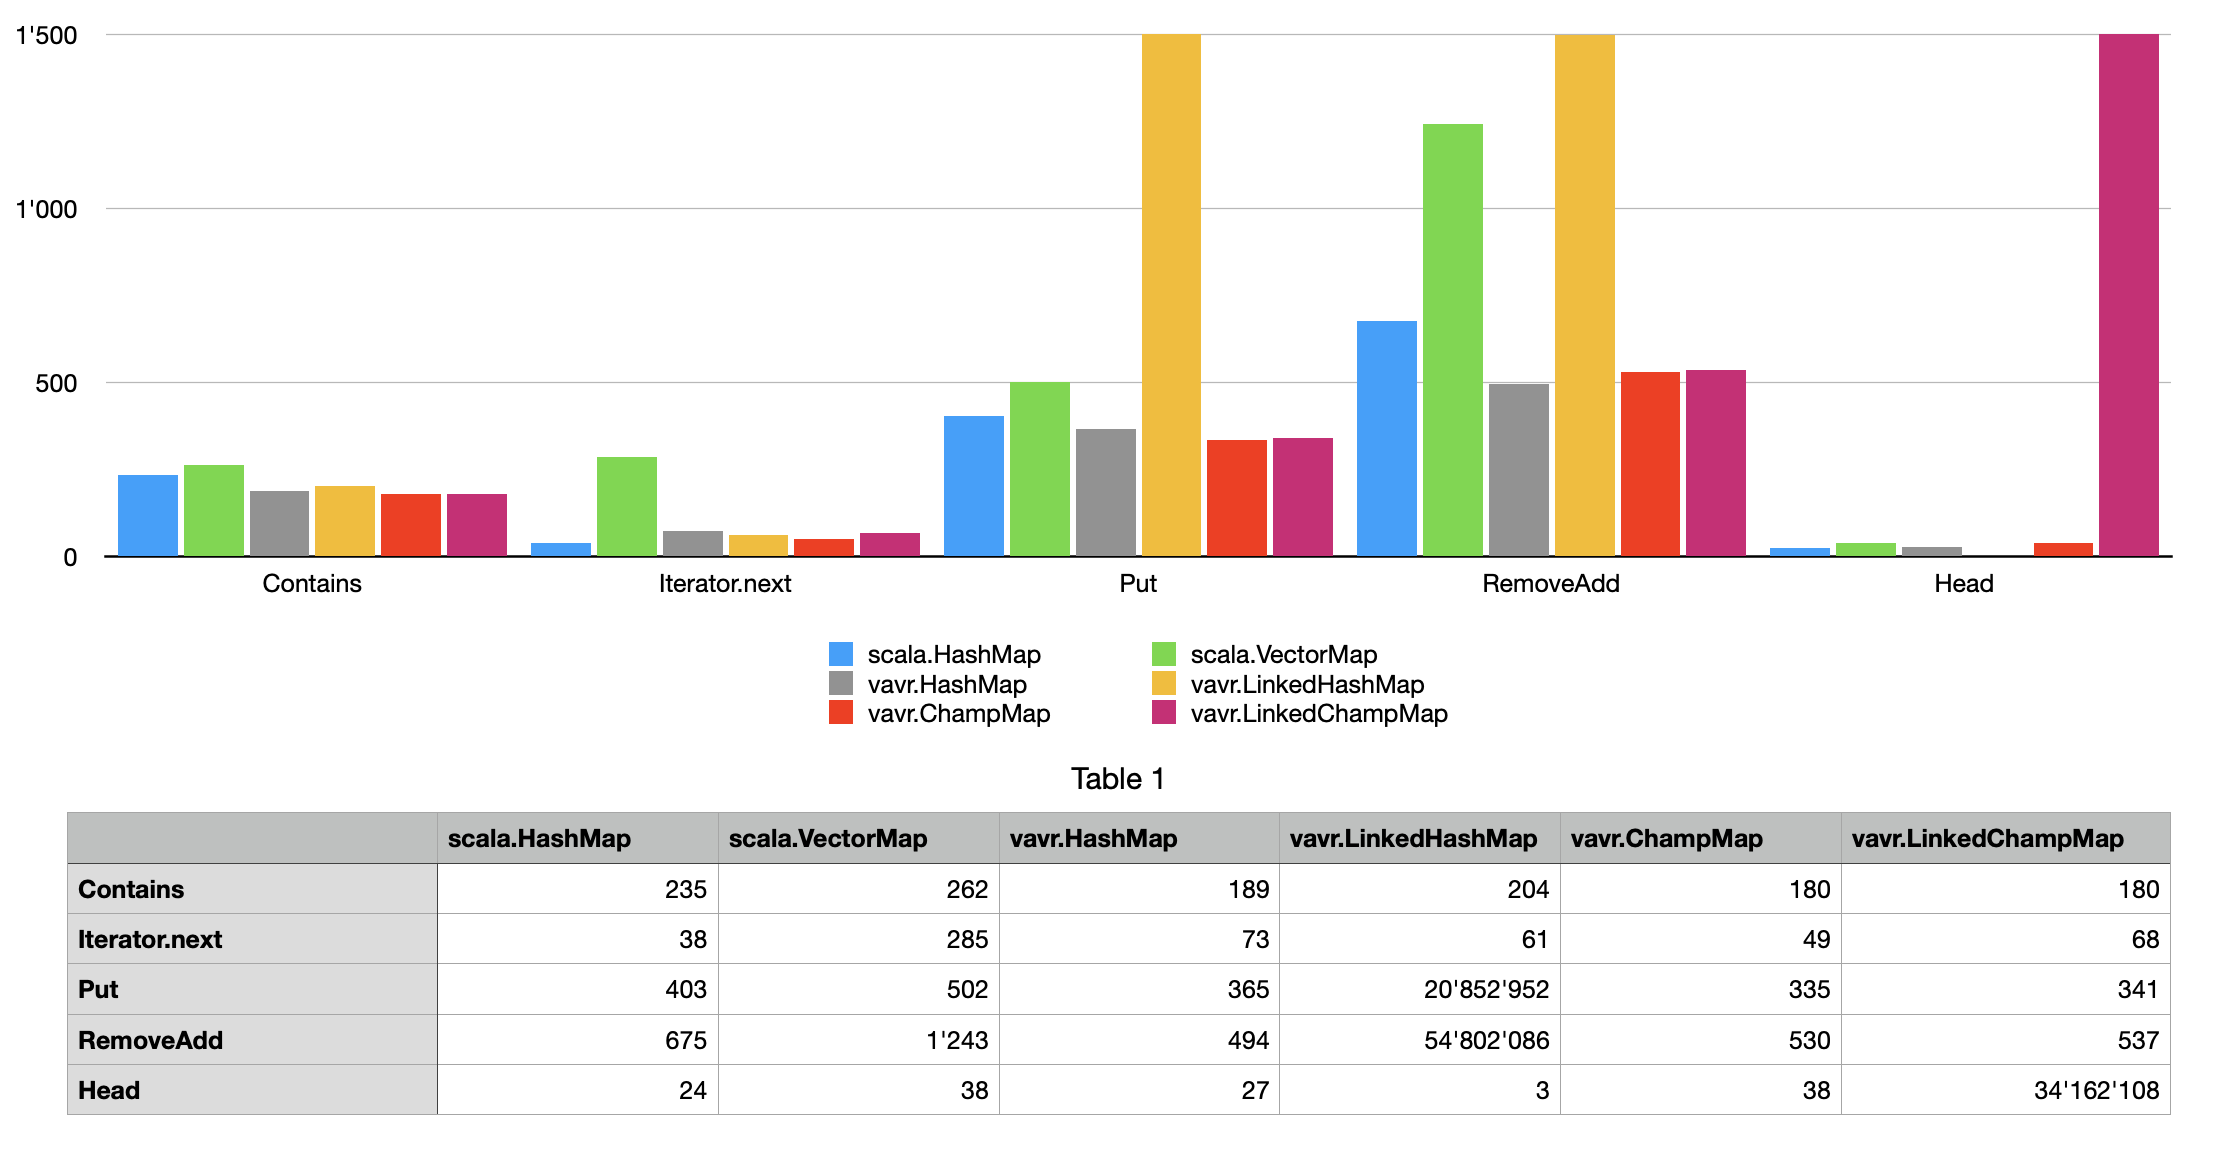
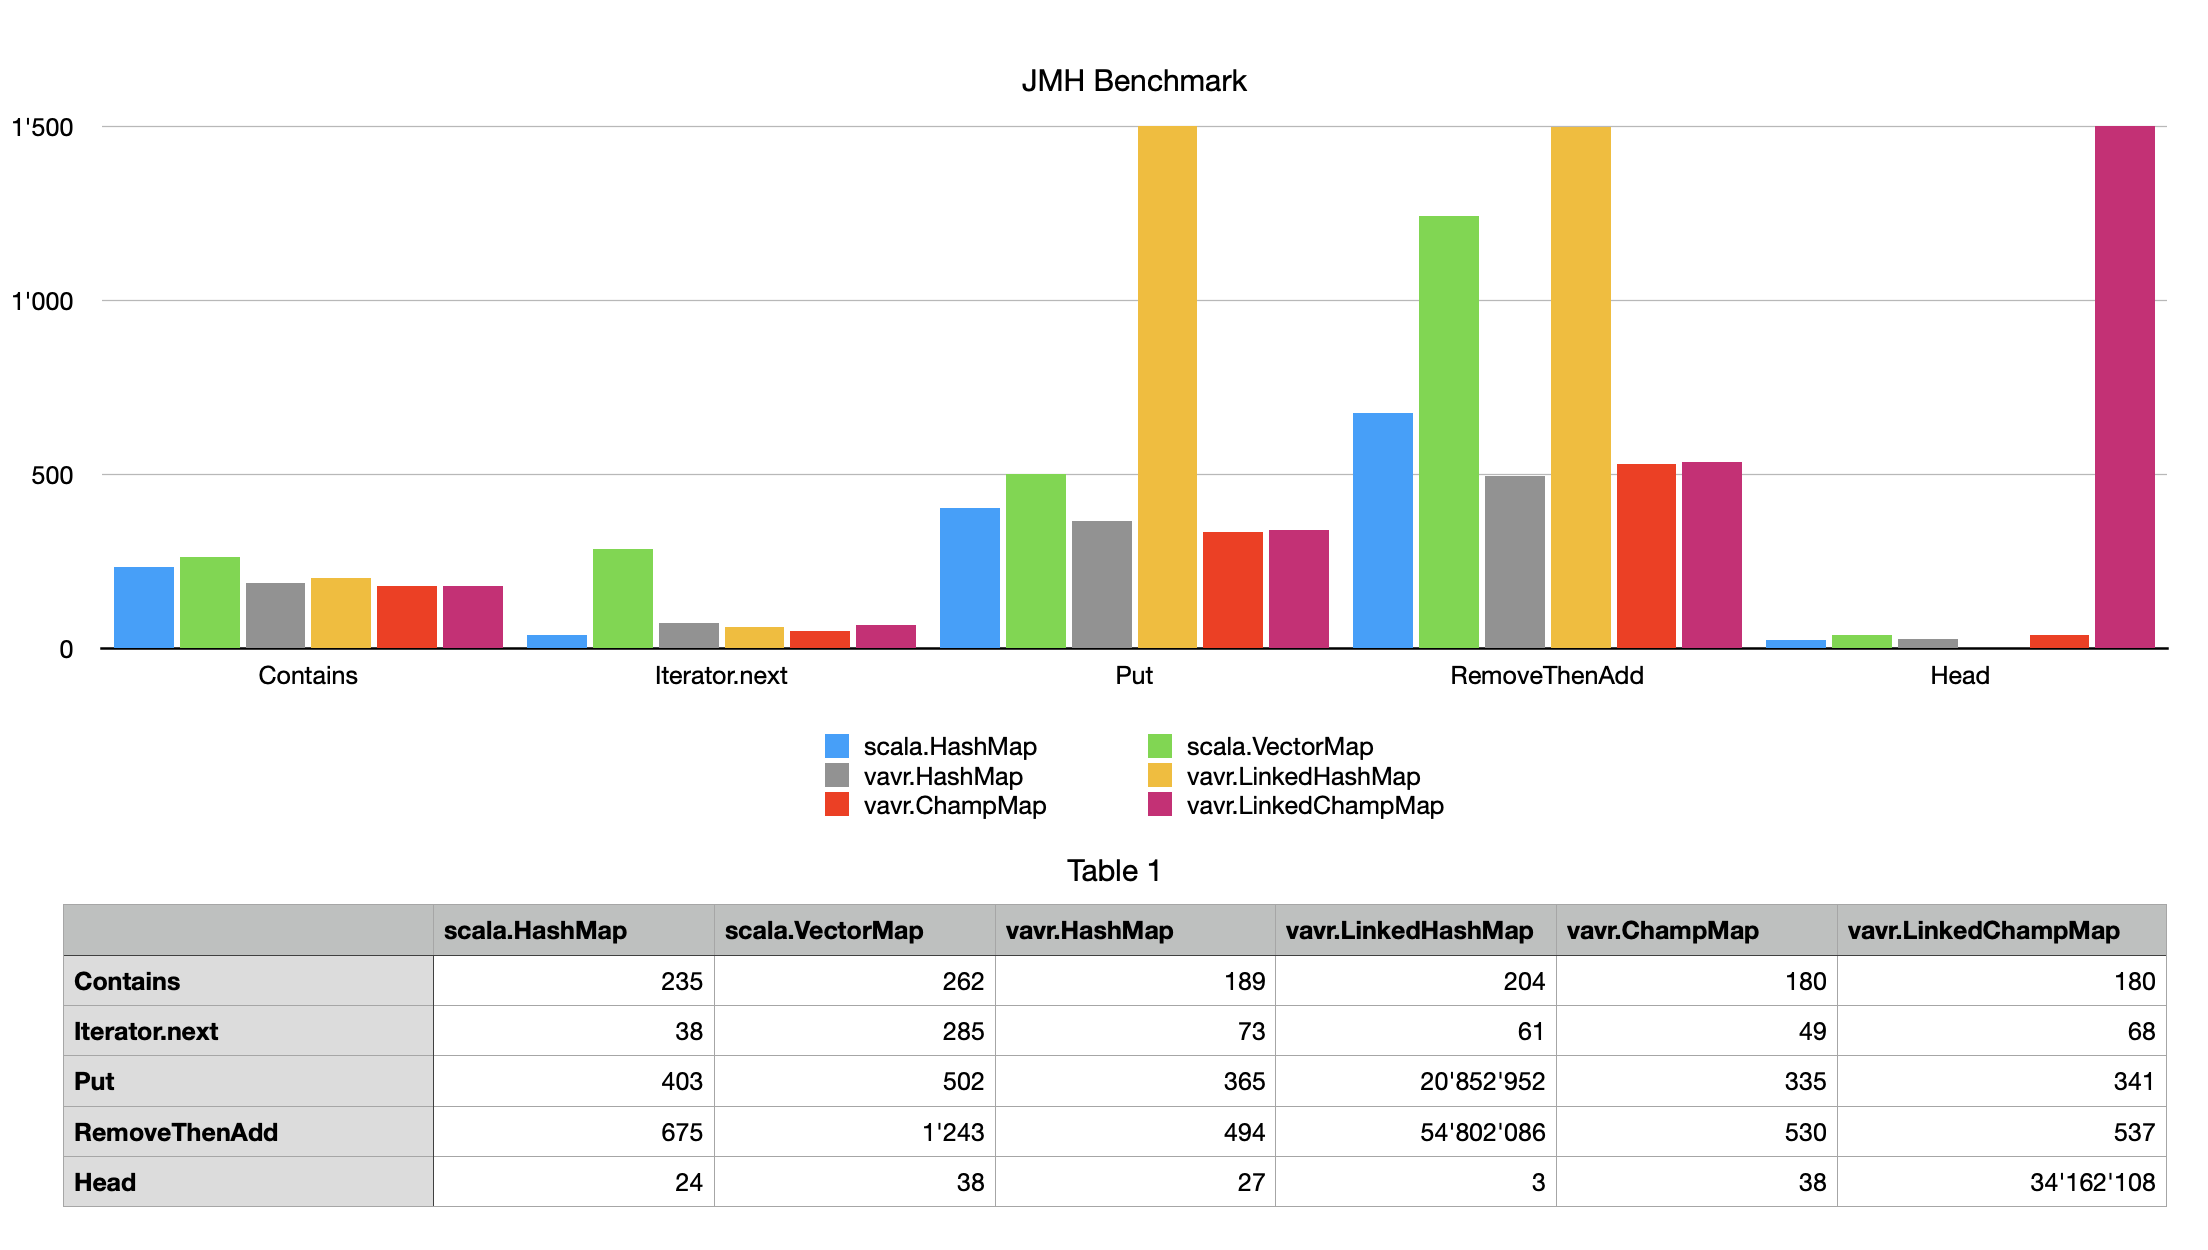
Updates chart and JMH tests.

diff --git a/src/jmh/java/io/vavr/jmh/JavaUtilHashMapJmh.java b/src/jmh/java/io/vavr/jmh/JavaUtilHashMapJmh.java
@@ -28,7 +28,7 @@ import java.util.concurrent.TimeUnit;
  * ContainsNotFound       1000000  avgt    4        93.507 ±      0.773  ns/op
  * Iterate                1000000  avgt    4  33816828.875 ± 907645.391  ns/op
  * Put                    1000000  avgt    4       203.074 ±      7.930  ns/op
- * RemoveAdd              1000000  avgt    4       164.366 ±      2.594  ns/op
+ * RemoveThenAdd          1000000  avgt    4       164.366 ±      2.594  ns/op
  * Head                   1000000  avgt    4        12.922 ±      0.437  ns/op
  * </pre>
  */
@@ -52,7 +52,7 @@ public class JavaUtilHashMapJmh {
     @Setup
     public void setup() {
         data = new BenchmarkData(size, mask);
-        mapA = new HashMap<>();
+         mapA = new HashMap<>();
         setA = Collections.newSetFromMap(mapA);
         setA.addAll(data.setA);
     }
@@ -67,7 +67,7 @@ public class JavaUtilHashMapJmh {
     }
 
     @Benchmark
-    public void mRemoveAdd() {
+    public void mRemoveThenAdd() {
         Key key =data.nextKeyInA();
         setA.remove(key);
         setA.add(key);

diff --git a/src/jmh/java/io/vavr/jmh/VavrHashMapJmh.java b/src/jmh/java/io/vavr/jmh/VavrHashMapJmh.java
@@ -28,7 +28,7 @@ import java.util.concurrent.TimeUnit;
  * ContainsNotFound  1000000  avgt    4       186.394 ±       6.957  ns/op
  * Iterate           1000000  avgt    4  72885227.133 ± 3892692.065  ns/op
  * Put               1000000  avgt    4       365.380 ±      14.707  ns/op
- * RemoveAdd         1000000  avgt    4       493.927 ±      17.767  ns/op
+ * RemoveThenAdd     1000000  avgt    4       493.927 ±      17.767  ns/op
  * Head              1000000  avgt    4        27.143 ±       1.361  ns/op
  * </pre>
  */
@@ -51,7 +51,7 @@ public class VavrHashMapJmh {
     @Setup
     public void setup() {
         data = new BenchmarkData(size, mask);
-         mapA =  HashMap.empty();
+        mapA =  HashMap.empty();
         for (Key key : data.setA) {
             mapA=mapA.put(key,Boolean.TRUE);
         }
@@ -67,7 +67,7 @@ public class VavrHashMapJmh {
     }
 
     @Benchmark
-    public void mRemoveAdd() {
+    public void mRemoveThenAdd() {
         Key key =data.nextKeyInA();
         mapA.remove(key).put(key,Boolean.TRUE);
     }

diff --git a/src/jmh/java/io/vavr/jmh/VavrLinkedHashMapJmh.java b/src/jmh/java/io/vavr/jmh/VavrLinkedHashMapJmh.java
@@ -27,7 +27,7 @@ import java.util.concurrent.TimeUnit;
  * Iterate           1000000  avgt    4  61178364.610 ± 1591497.482  ns/op
  * Put               1000000  avgt    4  20852951.646 ± 4411897.843  ns/op
  * Head              1000000  avgt    4         3.219 ±       0.061  ns/op
- * RemoveAdd         1000000  avgt    4  54802086.451 ± 5489641.693  ns/op
+ * RemoveThenAdd     1000000  avgt    4  54802086.451 ± 5489641.693  ns/op
  * </pre>
  */
 @State(Scope.Benchmark)
@@ -48,7 +48,7 @@ public class VavrLinkedHashMapJmh {
     @Setup
     public void setup() {
         data = new BenchmarkData(size, mask);
-         mapA =  LinkedHashMap.empty();
+        mapA =  LinkedHashMap.empty();
         for (Key key : data.setA) {
             mapA=mapA.put(key,Boolean.TRUE);
         }
@@ -64,7 +64,7 @@ public class VavrLinkedHashMapJmh {
     }
 
     @Benchmark
-    public void mRemoveAdd() {
+    public void mRemoveThenAdd() {
         Key key =data.nextKeyInA();
         mapA.remove(key).put(key,Boolean.TRUE);
     }

diff --git a/src/jmh/java/io/vavr/jmh/JavaUtilHashSetJmh.java b/src/jmh/java/io/vavr/jmh/JavaUtilHashSetJmh.java
@@ -23,7 +23,7 @@ import java.util.concurrent.TimeUnit;
  *
  * Benchmark               (size)  Mode  Cnt    _     Score        Error  Units
  * mIterate               1000000  avgt    4  33_497667.586 ± 522756.433  ns/op
- * mRemoveAdd             1000000  avgt    4    _   164.231 ±     12.128  ns/op
+ * mRemoveThenAdd         1000000  avgt    4    _   164.231 ±     12.128  ns/op
  * mContainsFound         1000000  avgt    4    _    92.212 ±      2.679  ns/op
  * mContainsNotFound      1000000  avgt    4    _    91.997 ±      3.519  ns/op
  * </pre>
@@ -60,7 +60,7 @@ public class JavaUtilHashSetJmh {
     }
 
     @Benchmark
-    public void mRemoveAdd() {
+    public void mRemoveThenAdd() {
         Key key =data.nextKeyInA();
         setA.remove(key);
         setA.add(key);

diff --git a/src/jmh/java/io/vavr/jmh/VavrLinkedHashSetJmh.java b/src/jmh/java/io/vavr/jmh/VavrLinkedHashSetJmh.java
@@ -26,7 +26,7 @@ import java.util.concurrent.TimeUnit;
  * ContainsNotFound  1000000  avgt    4    _   207.064 ±       28.109  ns/op
  * Head              1000000  avgt    4   4_572643.356 ±   304792.025  ns/op
  * Iterate           1000000  avgt    4  72_354050.601 ±  4164487.060  ns/op
- * RemoveAdd         1000000  avgt    4  55_789995.082 ±  6626404.364  ns/op
+ * RemoveThenAdd     1000000  avgt    4  55_789995.082 ±  6626404.364  ns/op
  * Tail              1000000  avgt    4  48_914447.602 ± 16458725.793  ns/op
  * </pre>
  */
@@ -61,7 +61,7 @@ public class VavrLinkedHashSetJmh {
     }
 
     @Benchmark
-    public void mRemoveAdd() {
+    public void mRemoveThenAdd() {
         Key key =data.nextKeyInA();
         setA.remove(key).add(key);
     }

diff --git a/src/jmh/java/io/vavr/jmh/VavrChampSetJmh.java b/src/jmh/java/io/vavr/jmh/VavrChampSetJmh.java
@@ -26,7 +26,7 @@ import java.util.concurrent.TimeUnit;
  * mContainsNotFound  1000000  avgt    4    _   173.803 ±       5.247  ns/op
  * mHead              1000000  avgt    4    _    23.992 ±       1.879  ns/op
  * mIterate           1000000  avgt    4  36_428809.525 ± 1247676.226  ns/op
- * mRemoveAdd         1000000  avgt    4    _   518.853 ±      16.583  ns/op
+ * mRemoveThenAdd     1000000  avgt    4    _   518.853 ±      16.583  ns/op
  * mTail              1000000  avgt    4    _   109.234 ±       2.909  ns/op
  * </pre>
  */
@@ -62,7 +62,7 @@ public class VavrChampSetJmh {
     }
 
     @Benchmark
-    public void mRemoveAdd() {
+    public void mRemoveThenAdd() {
         Key key =data.nextKeyInA();
         setA.remove(key).add(key);
     }

diff --git a/src/jmh/java/io/vavr/jmh/VavrLinkedChampSetJmh.java b/src/jmh/java/io/vavr/jmh/VavrLinkedChampSetJmh.java
@@ -26,7 +26,7 @@ import java.util.concurrent.TimeUnit;
  * ContainsNotFound  1000000  avgt    4    _   189.635 ±      11.438  ns/op
  * Head              1000000  avgt    4  17_254402.086 ± 6508953.518  ns/op
  * Iterate           1000000  avgt    4  51_883556.621 ± 8627597.187  ns/op
- * RemoveAdd         1000000  avgt    4    _   576.505 ±      45.590  ns/op
+ * RemoveThenAdd     1000000  avgt    4    _   576.505 ±      45.590  ns/op
  * Tail              1000000  avgt    4  18_164028.334 ± 2231690.063  ns/op
  * </pre>
  */
@@ -62,7 +62,7 @@ public class VavrLinkedChampSetJmh {
     }
 
     @Benchmark
-    public void mRemoveAdd() {
+    public void mRemoveThenAdd() {
         Key key =data.nextKeyInA();
         setA.remove(key).add(key);
     }

diff --git a/src/jmh/java/io/vavr/jmh/ScalaHashSetJmh.java b/src/jmh/java/io/vavr/jmh/ScalaHashSetJmh.java
@@ -29,7 +29,7 @@ import java.util.concurrent.TimeUnit;
  * ContainsNotFound  1000000  avgt    4       212.304 ±       1.445  ns/op
  * Head              1000000  avgt    4        24.136 ±       0.929  ns/op
  * Iterate           1000000  avgt    4  39136478.695 ± 1245379.552  ns/op
- * RemoveAdd         1000000  avgt    4       626.577 ±      12.087  ns/op
+ * RemoveThenAdd     1000000  avgt    4       626.577 ±      12.087  ns/op
  * Tail              1000000  avgt    4       116.357 ±       5.528  ns/op
  * </pre>
  */
@@ -68,7 +68,7 @@ public class ScalaHashSetJmh {
     }
 
     @Benchmark
-    public void mRemoveAdd() {
+    public void mRemoveThenAdd() {
         Key key =data.nextKeyInA();
         setA.$minus(key).$plus(key);
     }

diff --git a/src/jmh/java/io/vavr/jmh/VavrHashSetJmh.java b/src/jmh/java/io/vavr/jmh/VavrHashSetJmh.java
@@ -26,7 +26,7 @@ import java.util.concurrent.TimeUnit;
  * ContainsNotFound  1000000  avgt    4    _   184.569 ±       6.285  ns/op
  * Head              1000000  avgt    4    _    28.304 ±       1.221  ns/op
  * Iterate           1000000  avgt    4  75_220573.689 ± 2519747.255  ns/op
- * RemoveAdd         1000000  avgt    4    _  515.512 ±      17.707  ns/op
+ * RemoveThenAdd     1000000  avgt    4    _  515.512 ±      17.707  ns/op
  * Tail              1000000  avgt    4    _  126.476 ±      12.657  ns/op
  * </pre>
  */
@@ -61,7 +61,7 @@ public class VavrHashSetJmh {
     }
 
     @Benchmark
-    public void mRemoveAdd() {
+    public void mRemoveThenAdd() {
         Key key =data.nextKeyInA();
         setA.remove(key).add(key);
     }

diff --git a/src/jmh/java/io/vavr/jmh/ScalaVectorMapJmh.java b/src/jmh/java/io/vavr/jmh/ScalaVectorMapJmh.java
@@ -31,7 +31,7 @@ import java.util.concurrent.TimeUnit;
  * Head              1000000  avgt    4         38.234 ±      2.455  ns/op
  * Iterate           1000000  avgt    4  284698238.201 ± 950950.509  ns/op
  * Put               1000000  avgt    4        501.840 ±      6.593  ns/op
- * RemoveAdd         1000000  avgt    4       1242.707 ±    503.426  ns/op
+ * RemoveThenAdd     1000000  avgt    4       1242.707 ±    503.426  ns/op
  * </pre>
  */
 @State(Scope.Benchmark)
@@ -70,7 +70,7 @@ public class ScalaVectorMapJmh {
     }
 
     @Benchmark
-    public void mRemoveAdd() {
+    public void mRemoveThenAdd() {
         Key key =data.nextKeyInA();
         mapA.$minus(key).$plus(new Tuple2<>(key,Boolean.TRUE));
     }

diff --git a/src/jmh/java/io/vavr/jmh/ScalaHashMapJmh.java b/src/jmh/java/io/vavr/jmh/ScalaHashMapJmh.java
@@ -31,7 +31,7 @@ import java.util.concurrent.TimeUnit;
  * Iterate           1000000  avgt    4  38126058.704 ± 2402214.160  ns/op
  * Put               1000000  avgt    4       403.080 ±       4.946  ns/op
  * Head              1000000  avgt    4        24.020 ±       3.039  ns/op
- * RemoveAdd         1000000  avgt    4       674.819 ±       6.798  ns/op
+ * RemoveThenAdd     1000000  avgt    4       674.819 ±       6.798  ns/op
  * </pre>
  */
 @State(Scope.Benchmark)
@@ -70,7 +70,7 @@ public class ScalaHashMapJmh {
     }
 
     @Benchmark
-    public void mRemoveAdd() {
+    public void mRemoveThenAdd() {
         Key key =data.nextKeyInA();
         mapA.$minus(key).$plus(new Tuple2<>(key,Boolean.TRUE));
     }

diff --git a/src/jmh/java/io/vavr/jmh/VavrLinkedChampMapJmh.java b/src/jmh/java/io/vavr/jmh/VavrLinkedChampMapJmh.java
@@ -27,7 +27,7 @@ import java.util.concurrent.TimeUnit;
  * Iterate           1000000  avgt    4  67746660.311 ± 11683119.941  ns/op
  * Put               1000000  avgt    4       340.929 ±        8.589  ns/op
  * Head              1000000  avgt    4  34162107.506 ±  2239763.509  ns/op
- * RemoveAdd         1000000  avgt    4       536.753 ±       18.663  ns/op
+ * RemoveThenAdd     1000000  avgt    4       536.753 ±       18.663  ns/op
  * </pre>
  */
 @State(Scope.Benchmark)
@@ -65,7 +65,7 @@ public class VavrLinkedChampMapJmh {
     }
 
     @Benchmark
-    public void mRemoveAdd() {
+    public void mRemoveThenAdd() {
         Key key =data.nextKeyInA();
         mapA.remove(key).put(key,Boolean.TRUE);
     }
